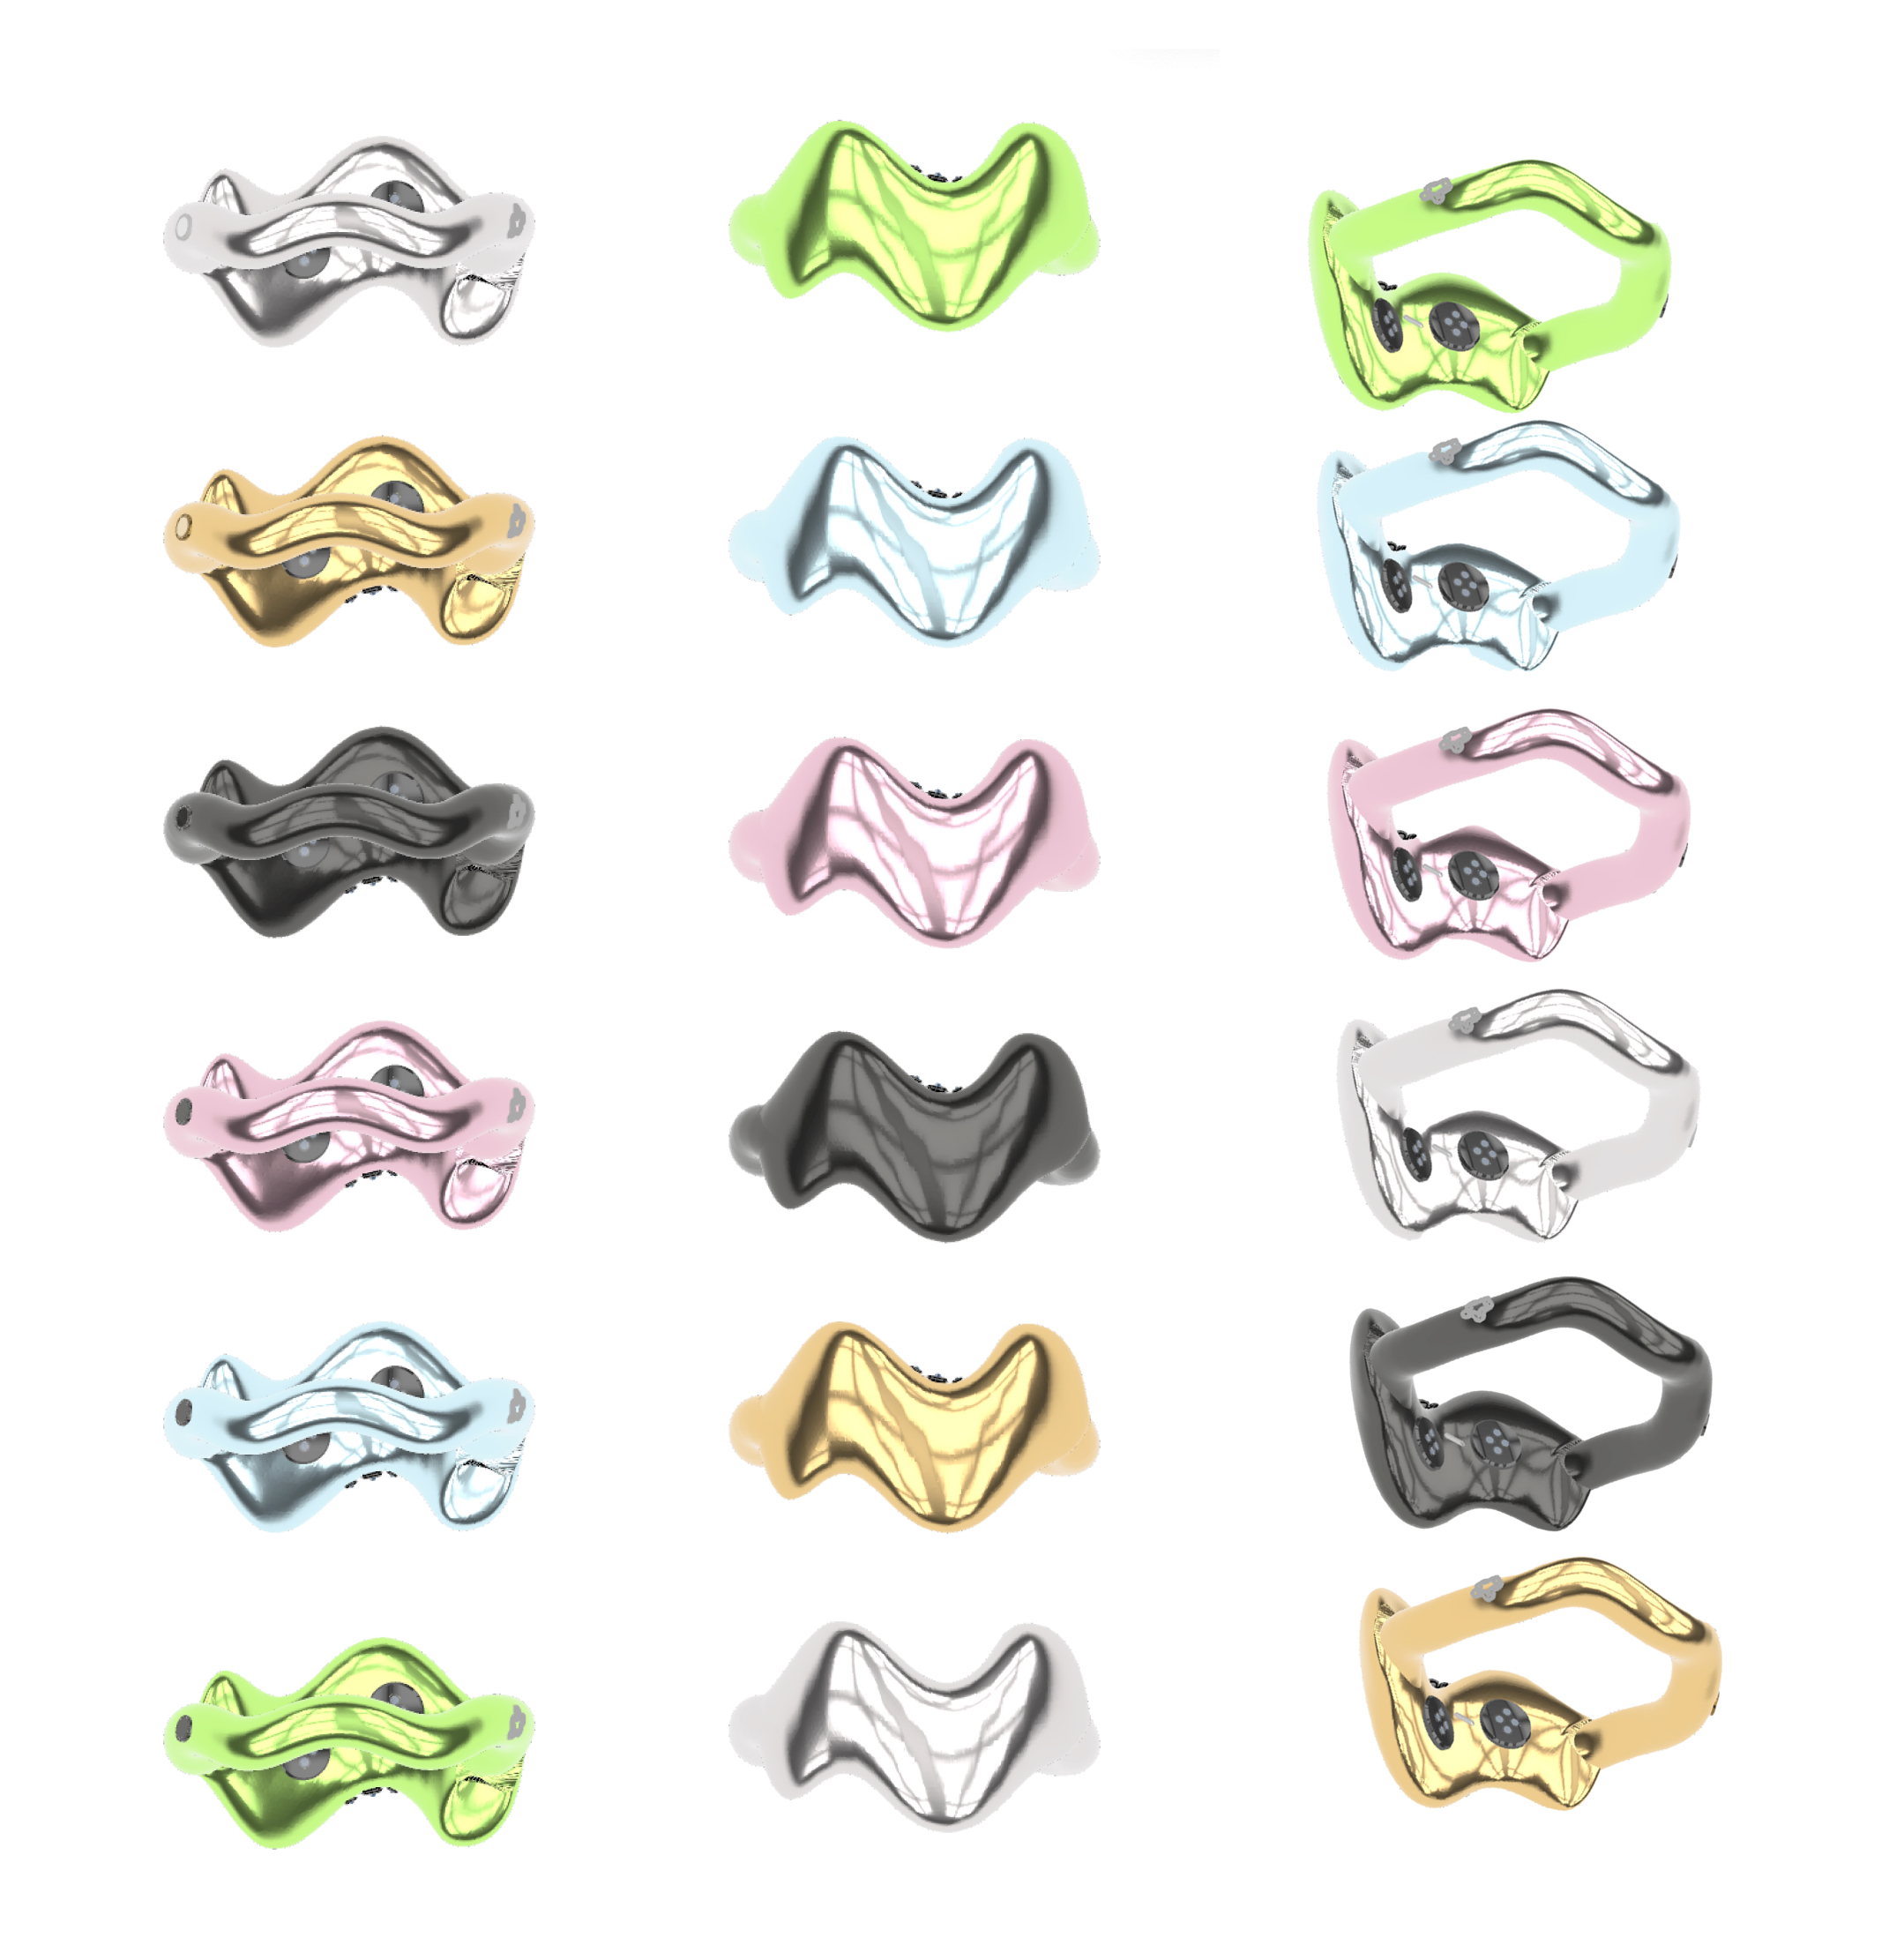
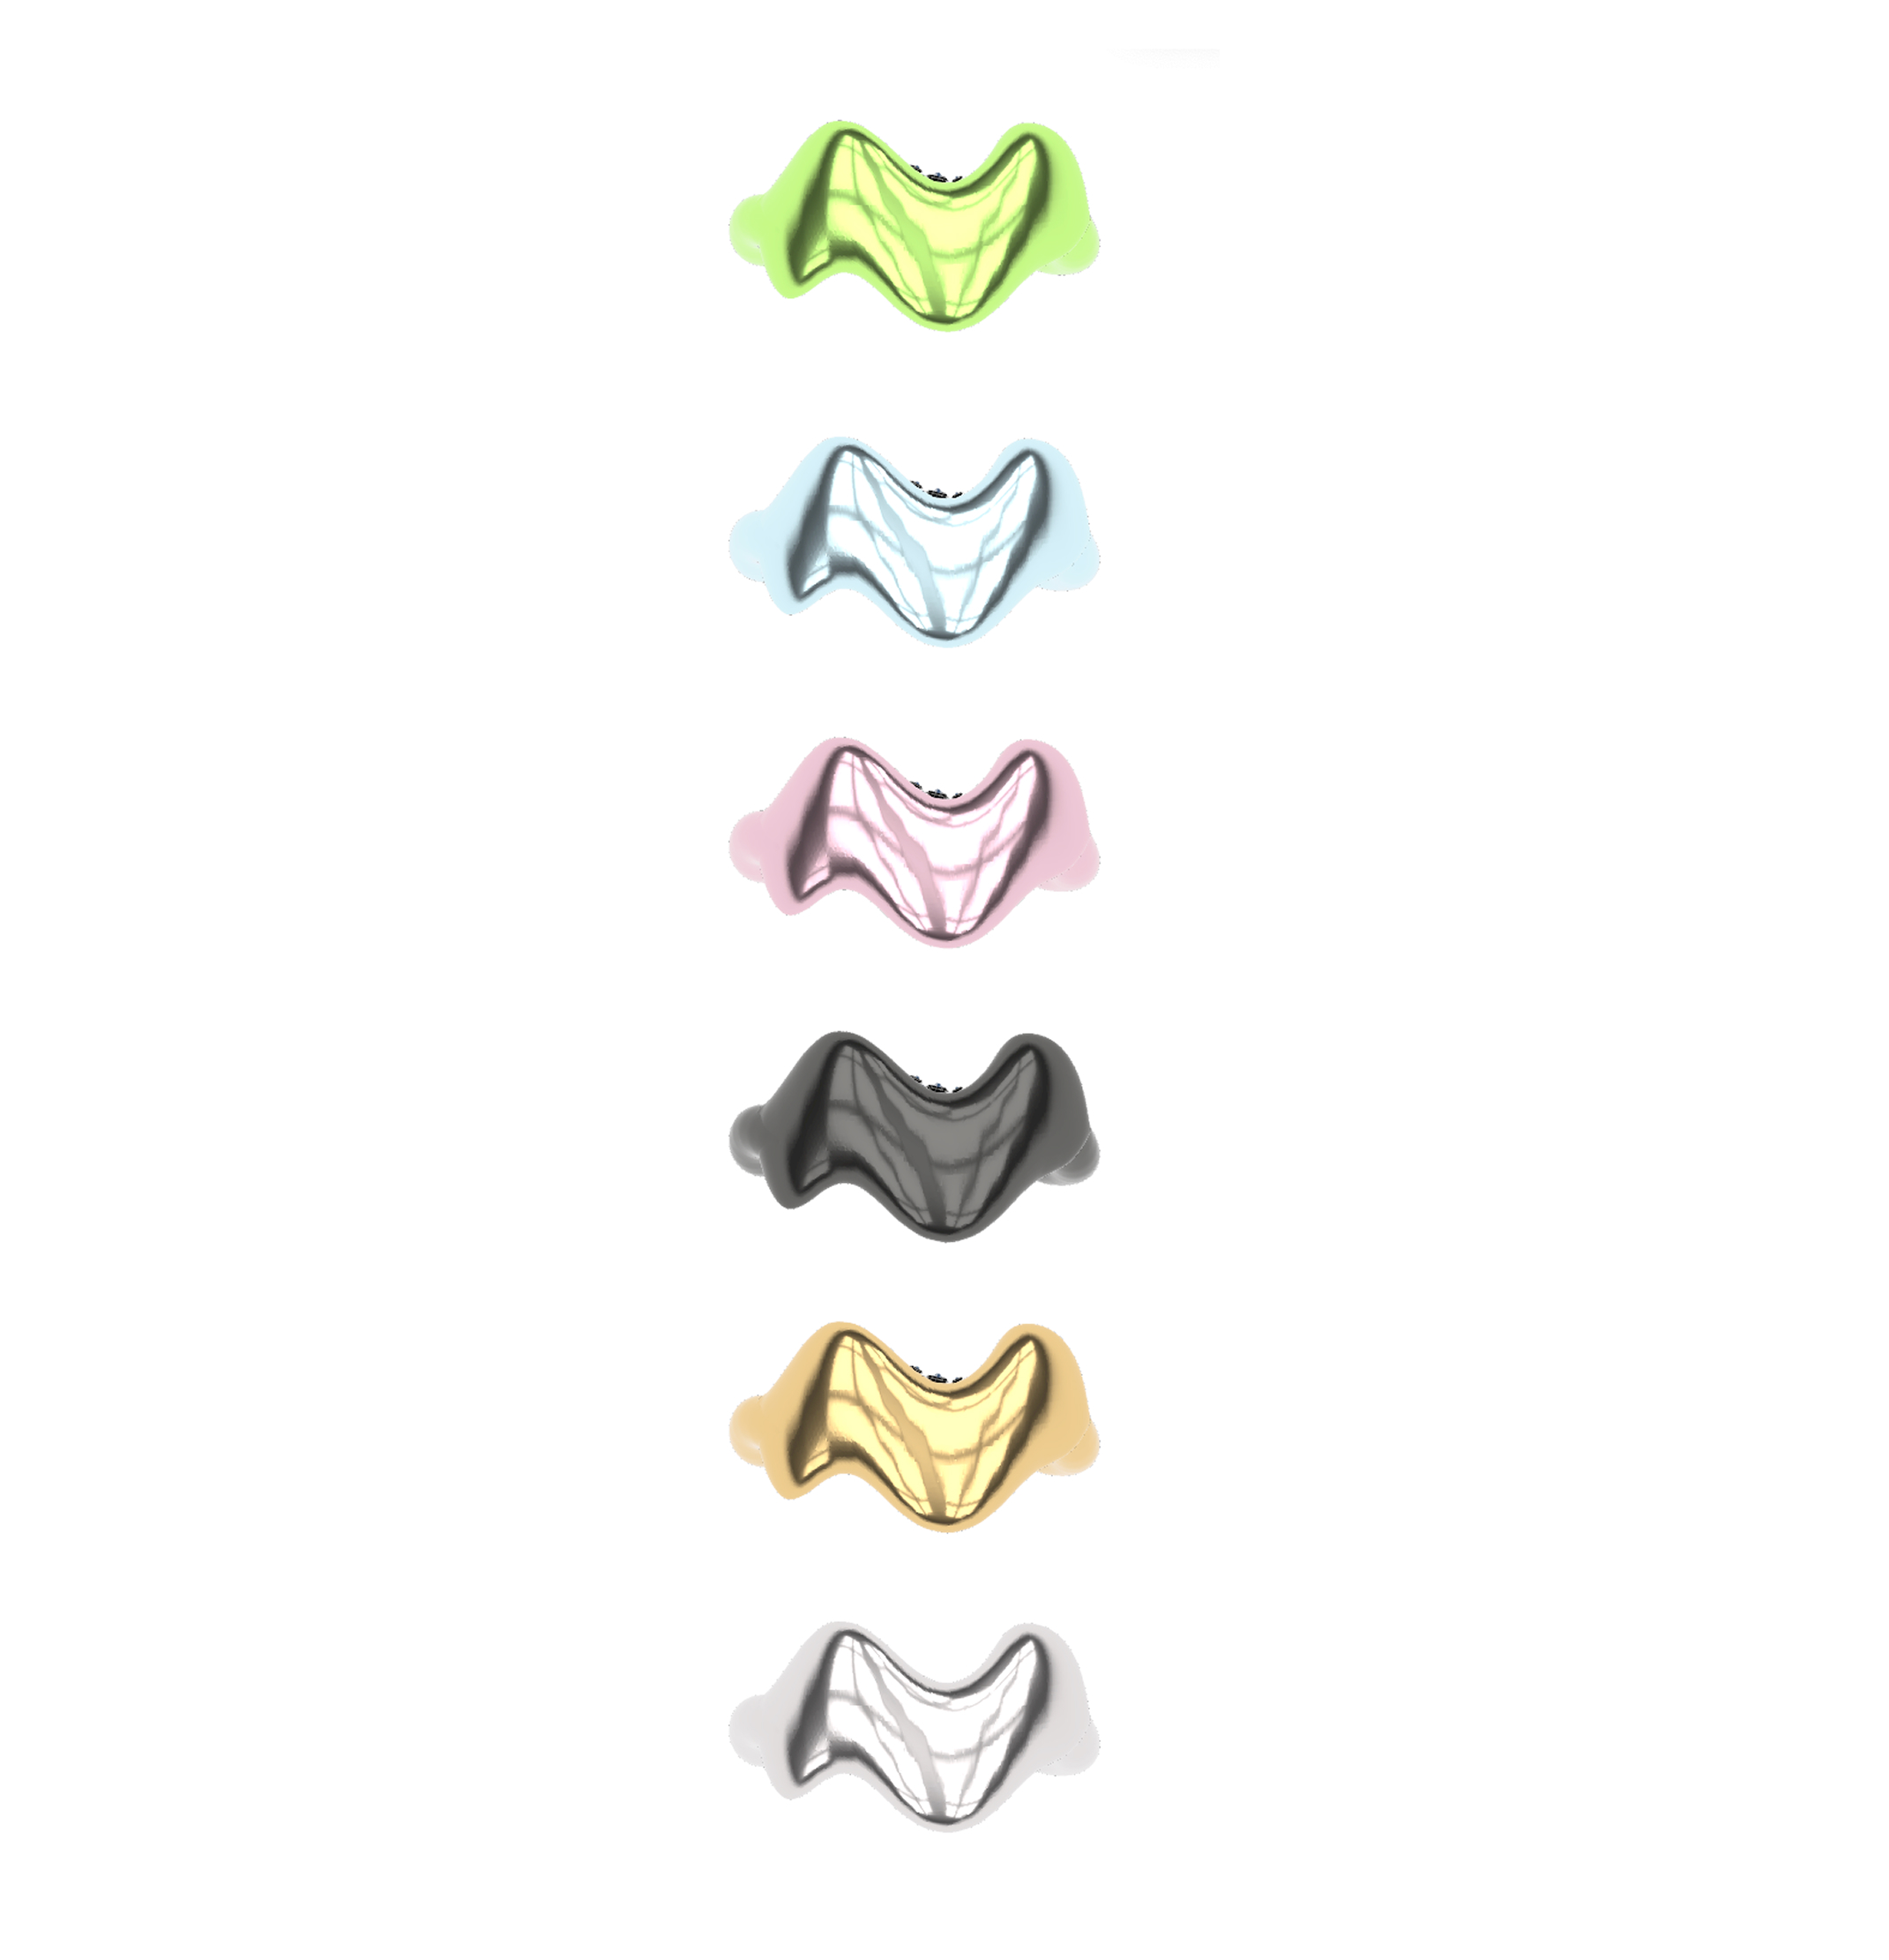
Forage case-study
- completed forage assets
- containers and images
- embedded final product, video and share tag

diff --git a/projects/forage/index.html b/projects/forage/index.html
@@ -182,7 +182,7 @@
                 <img src="../../assets/images/forage/problem.jpg" alt="Designer sensing the world" style="width:100%;height:100%;object-fit:cover;display:block;" />
               </div>
               <div style="border-radius:0.8rem;overflow:hidden;box-shadow:0 0 0 1px #e0e0e0;background:#fff;position:relative;">
-                <img src="../../assets/images/forage/problem-2.jpg" alt="Inspiration capture types" style="position:absolute;inset:0;width:100%;height:100%;object-fit:contain;display:block;" />
+                <img src="../../assets/images/forage/problem-2.jpg" alt="Inspiration capture types" style="position:absolute;inset:0;width:100%;height:100%;object-fit:cover;display:block;" />
               </div>
             </div>
             <div style="margin-top:var(--space-2);border-radius:0.8rem;overflow:hidden;box-shadow:0 0 0 1px #e0e0e0;">
@@ -297,23 +297,23 @@
               <div class="case-carousel-viewport" style="overflow:hidden;">
                 <div class="case-carousel-track">
                   <div class="case-carousel-slide">
-                    <div style="display:grid;grid-template-columns:1fr 1fr;grid-template-rows:1fr 1fr;gap:var(--space-2);aspect-ratio:16/9;">
+                    <div style="display:grid;grid-template-columns:2fr 3fr;grid-template-rows:1fr 1.4fr;gap:var(--space-2);aspect-ratio:16/10;padding:2px;">
                       <div style="border-radius:0.8rem;overflow:hidden;box-shadow:0 0 0 1px #e0e0e0;">
                         <img src="../../assets/images/forage/ex-1.jpg" alt="Forage app — image capture" style="width:100%;height:100%;object-fit:cover;object-position:center top;display:block;" />
-                      </div>
-                      <div style="border-radius:0.8rem;overflow:hidden;box-shadow:0 0 0 1px #e0e0e0;">
-                        <img src="../../assets/images/forage/ex-2.jpg" alt="Forage app — typography capture" style="width:100%;height:100%;object-fit:cover;object-position:center top;display:block;" />
                       </div>
                       <div style="border-radius:0.8rem;overflow:hidden;box-shadow:0 0 0 1px #e0e0e0;">
                         <img src="../../assets/images/forage/ex-3.jpg" alt="Forage app — color capture" style="width:100%;height:100%;object-fit:cover;object-position:center top;display:block;" />
                       </div>
                       <div style="border-radius:0.8rem;overflow:hidden;box-shadow:0 0 0 1px #e0e0e0;">
-                        <img src="../../assets/images/forage/ex-4.jpg" alt="Forage app — motion capture" style="width:100%;height:100%;object-fit:cover;object-position:center top;display:block;" />
+                        <img src="../../assets/images/forage/ex-2.jpg" alt="Forage app — typography capture" style="width:100%;height:100%;object-fit:cover;object-position:center top;display:block;" />
+                      </div>
+                      <div style="border-radius:0.8rem;overflow:hidden;box-shadow:0 0 0 1px #e0e0e0;">
+                        <img src="../../assets/images/forage/ex-4.jpg" alt="Forage app — motion capture" style="width:100%;height:100%;object-fit:cover;object-position:center top;display:block;transform:scale(1.08);transform-origin:center;" />
                       </div>
                     </div>
                   </div>
                   <div class="case-carousel-slide">
-                    <div style="display:grid;grid-template-columns:4fr 2fr;gap:var(--space-2);aspect-ratio:16/9;">
+                    <div style="display:grid;grid-template-columns:5fr 2fr;gap:var(--space-2);aspect-ratio:16/10;padding:2px;">
                       <div style="border-radius:0.8rem;overflow:hidden;box-shadow:0 0 0 1px #e0e0e0;">
                         <img src="../../assets/images/forage/testing.jpg" alt="Forage ring hardware iterations" style="width:100%;height:100%;object-fit:cover;display:block;" />
                       </div>
@@ -360,13 +360,26 @@
                 and keeps all captured signals fully visible and editable in the archive.
               </p>
             </div>
-            <div class="case-section-media-row">
-              <div class="case-image-block">
-                <div class="case-media-placeholder">Spot → Gather → Create interaction flow</div>
+            <div style="margin-top:var(--space-4);">
+              <p class="case-section-label">Live Site</p>
+              <h2 class="case-section-title" style="font-size:clamp(1.1rem,2vw,1.4rem);">Forage Web App</h2>
+              <p style="margin-top:0.75rem;">The Forage web app is live — explore the archive interface, browse captured assets by type, and see how the system organizes real-world inspiration into a structured design library. Try it yourself below.</p>
+              <div style="margin-top:var(--space-3);border-radius:0.8rem;overflow:hidden;box-shadow:0 0 0 1px #e0e0e0;aspect-ratio:16/10;position:relative;">
+                <iframe src="https://forage.figma.site/" style="width:100%;height:100%;border:none;display:block;" title="Forage live site" loading="lazy"></iframe>
+                <div style="position:absolute;bottom:1rem;right:1rem;">
+                  <a href="https://forage.figma.site/" target="_blank" rel="noopener noreferrer" style="display:inline-flex;align-items:center;gap:0.4rem;padding:0.45rem 0.85rem;background:#fff;border-radius:2rem;box-shadow:0 0 0 1px #e0e0e0;font-size:0.8rem;font-family:inherit;color:var(--color-text);text-decoration:none;">
+                    Open in new tab
+                    <svg width="12" height="12" viewBox="0 0 12 12" fill="none" xmlns="http://www.w3.org/2000/svg" aria-hidden="true"><path d="M2 10L10 2M10 2H5M10 2V7" stroke="currentColor" stroke-width="1.5" stroke-linecap="round" stroke-linejoin="round"/></svg>
+                  </a>
+                </div>
               </div>
-              <div class="case-image-block">
-                <div class="case-media-placeholder">Safeguards + transparent archive management</div>
-              </div>
+            </div>
+            <div style="margin-top:var(--space-5);">
+              <p class="case-section-label">Video</p>
+              <h2 class="case-section-title" style="font-size:clamp(1.1rem,2vw,1.4rem);">Final Product Video</h2>
+            </div>
+            <div style="margin-top:var(--space-3);border-radius:0.8rem;overflow:hidden;box-shadow:0 0 0 1px #e0e0e0;aspect-ratio:16/9;">
+              <iframe src="https://www.youtube.com/embed/Z98Sjjp0sOE?si=f3WtwlBT1s4MLQjR&end=44" title="YouTube video player" frameborder="0" allow="accelerometer; autoplay; clipboard-write; encrypted-media; gyroscope; picture-in-picture; web-share" referrerpolicy="strict-origin-when-cross-origin" allowfullscreen style="width:100%;height:100%;border:none;display:block;"></iframe>
             </div>
           </section>
 
@@ -393,13 +406,25 @@
                 that typically happen after the fact.
               </p>
             </div>
-            <div class="case-section-media-row">
-              <div class="case-image-block">
-                <div class="case-media-placeholder">From scattered references to a living inspiration archive</div>
-              </div>
-              <div class="case-image-block">
-                <div class="case-media-placeholder">Impact across workflow + creative wellbeing</div>
-              </div>
+            <div style="margin-top:var(--space-4);">
+              <a href="https://devpost.com/software/forage-5rhbv6" target="_blank" rel="noopener noreferrer" style="display:block;border-radius:0.8rem;overflow:hidden;box-shadow:0 0 0 1px #e0e0e0;text-decoration:none;color:inherit;transition:box-shadow 0.2s ease;" onmouseover="this.style.boxShadow='0 0 0 1px #bbb'" onmouseout="this.style.boxShadow='0 0 0 1px #e0e0e0'">
+                <div style="display:grid;grid-template-columns:auto 1fr auto;align-items:stretch;">
+                  <div style="width:90px;flex-shrink:0;display:flex;align-items:center;justify-content:center;padding:0.75rem 0 0.75rem 0.75rem;">
+                    <img src="../../assets/images/forage/logo.jpg" alt="Forage logo" style="width:100%;height:auto;display:block;border-radius:0.5rem;" />
+                  </div>
+                  <div style="padding:1.25rem 1.5rem 1.25rem 0.75rem;">
+                    <div style="display:flex;align-items:center;gap:0.5rem;margin-bottom:0.4rem;">
+                      <img src="https://devpost.com/favicon.ico" alt="" aria-hidden="true" style="width:16px;height:16px;border-radius:3px;" />
+                      <span style="font-size:0.75rem;color:#888;font-family:inherit;">devpost.com</span>
+                    </div>
+                    <p style="margin:0 0 0.3rem;font-weight:600;font-size:1rem;color:var(--color-text);">Forage — FigBuild 2026 Submission</p>
+                    <p style="margin:0;font-size:0.85rem;color:#666;line-height:1.5;">A wearable AI system that captures real-world design assets — color, typography, motion, and imagery — at the speed of perception. Built at FigBuild 2026.</p>
+                  </div>
+                  <div style="padding:1.25rem 1.5rem 1.25rem 0;display:flex;align-items:center;">
+                    <svg width="16" height="16" viewBox="0 0 12 12" fill="none" xmlns="http://www.w3.org/2000/svg" aria-hidden="true" style="flex-shrink:0;color:#aaa;"><path d="M2 10L10 2M10 2H5M10 2V7" stroke="currentColor" stroke-width="1.5" stroke-linecap="round" stroke-linejoin="round"/></svg>
+                  </div>
+                </div>
+              </a>
             </div>
           </section>
 
@@ -427,7 +452,7 @@
                 and deeper AI modeling of personal creative preferences over time.
               </p>
             </div>
-            <div style="margin-top:var(--space-4);display:grid;grid-template-columns:1.5fr 2fr 2fr;grid-template-rows:1fr 1.6fr;gap:var(--space-2);aspect-ratio:16/8;">
+            <div style="margin-top:var(--space-4);display:grid;grid-template-columns:1.5fr 2fr 2fr;grid-template-rows:1fr 1.6fr;gap:var(--space-2);aspect-ratio:16/10;">
               <div style="border-radius:0.8rem;overflow:hidden;box-shadow:0 0 0 1px #e0e0e0;grid-column:1;grid-row:1;">
                 <img src="../../assets/images/forage/ref-3.jpg" alt="Team at FigBuild" style="width:100%;height:100%;object-fit:cover;display:block;" />
               </div>
@@ -435,13 +460,13 @@
                 <img src="../../assets/images/forage/ref-1.jpg" alt="FigBuild 2026 swag" style="width:100%;height:100%;object-fit:cover;display:block;" />
               </div>
               <div style="border-radius:0.8rem;overflow:hidden;box-shadow:0 0 0 1px #e0e0e0;grid-column:2;grid-row:1/3;">
-                <img src="../../assets/images/forage/ref-5.jpg" alt="Figma for Edu polaroid" style="width:100%;height:100%;object-fit:cover;display:block;" />
+                <img src="../../assets/images/forage/ref-5.jpg" alt="Figma for Edu polaroid" style="width:100%;height:100%;object-fit:cover;display:block;object-position:center 55%;transform:rotate(-0.3deg) scale(1.08);transform-origin:center;" />
               </div>
               <div style="border-radius:0.8rem;overflow:hidden;box-shadow:0 0 0 1px #e0e0e0;grid-column:3;grid-row:1;">
                 <img src="../../assets/images/forage/ref-2.jpg" alt="FigBuild stamp activity" style="width:100%;height:100%;object-fit:cover;display:block;" />
               </div>
               <div style="border-radius:0.8rem;overflow:hidden;box-shadow:0 0 0 1px #e0e0e0;grid-column:3;grid-row:2;">
-                <img src="../../assets/images/forage/ref-4.jpg" alt="Team whiteboard session" style="width:100%;height:100%;object-fit:cover;display:block;" />
+                <img src="../../assets/images/forage/ref-4.jpg" alt="Team whiteboard session" style="width:100%;height:100%;object-fit:cover;object-position:center 70%;display:block;" />
               </div>
             </div>
           </section>

diff --git a/projects/figma-design-challenge/index.html b/projects/figma-design-challenge/index.html
@@ -241,13 +241,13 @@
               <dt>Timeline</dt>
               <dd>8 Hours</dd>
             </div>
-            <div class="case-meta-item case-meta-item--shipped">
+            <div class="case-meta-item">
               <dt>Date</dt>
               <dd>January 2026</dd>
             </div>
             <div class="case-meta-item">
               <dt>Context</dt>
-              <dd>8-hour design challenge</dd>
+              <dd>8-hour design challenge with Sooim Kang, Kinza Ghanchi, and Melody Ekbatani</dd>
             </div>
             <div class="case-meta-item">
               <dt>Tools</dt>
@@ -451,9 +451,6 @@
               </div>
             </div>
             <div class="case-carousel" data-carousel style="margin-top:var(--space-5);">
-              <button class="case-carousel-btn case-carousel-prev" aria-label="Previous slide">
-                <svg width="16" height="16" viewBox="0 0 16 16" fill="none" xmlns="http://www.w3.org/2000/svg" aria-hidden="true"><polyline points="10,2 4,8 10,14" stroke="currentColor" stroke-width="1.75" stroke-linecap="round" stroke-linejoin="round"/></svg>
-              </button>
               <div class="case-carousel-viewport" style="overflow:hidden;">
                 <div class="case-carousel-track">
                   <div class="case-carousel-slide">
@@ -468,9 +465,6 @@
                   </div>
                 </div>
               </div>
-              <button class="case-carousel-btn case-carousel-next" aria-label="Next slide">
-                <svg width="16" height="16" viewBox="0 0 16 16" fill="none" xmlns="http://www.w3.org/2000/svg" aria-hidden="true"><polyline points="6,2 12,8 6,14" stroke="currentColor" stroke-width="1.75" stroke-linecap="round" stroke-linejoin="round"/></svg>
-              </button>
             </div>
           </section>
 